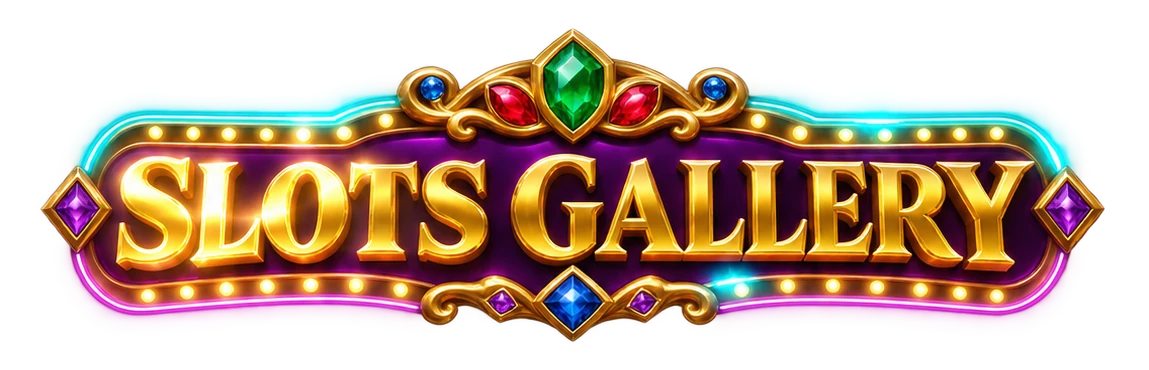
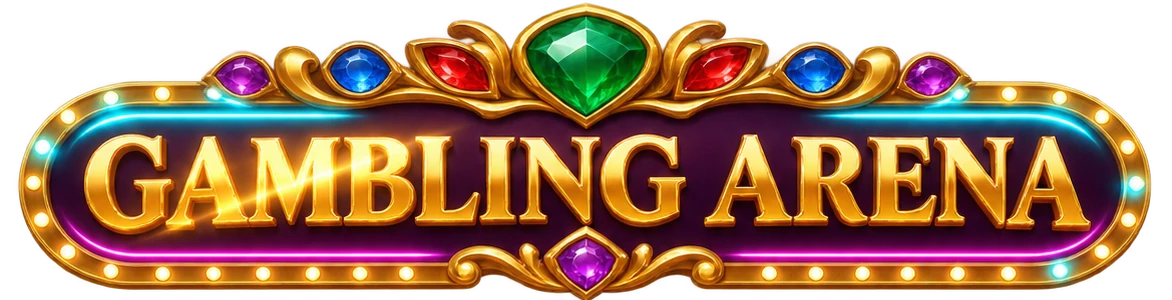
v1.12.0: Gambling Arena title
Replace the start-screen and menu title with the supplied 4-frame
"Gambling Arena" sheet (frames aligned to frame 0, clipped to their own
band, stray glow removed; title box now 1172x300). Rename the app from
Slots Gallery / Gem Royale to Gambling Arena in the page title,
home-screen name, manifest, accessibility labels and Settings text. Fix
the start screen's sound hint overlapping the version in landscape.

Version 1.11.0 -> 1.12.0.

Claude-Session: https://claude.ai/code/session_017YpgyCpvBdSMBF7Wu9vfHe

diff --git a/index.html b/index.html
@@ -3,35 +3,35 @@
 <head>
   <meta charset="utf-8">
   <meta name="viewport" content="width=device-width, initial-scale=1, maximum-scale=1, user-scalable=no, viewport-fit=cover">
-  <meta name="app-version" content="1.11.0">
-  <title>Gem Royale</title>
+  <meta name="app-version" content="1.12.0">
+  <title>Gambling Arena</title>
   <meta name="theme-color" content="#1a0626">
   <meta name="apple-mobile-web-app-capable" content="yes">
   <meta name="mobile-web-app-capable" content="yes">
   <meta name="apple-mobile-web-app-status-bar-style" content="black-translucent">
-  <meta name="apple-mobile-web-app-title" content="Gem Royale">
+  <meta name="apple-mobile-web-app-title" content="Gambling Arena">
   <link rel="apple-touch-icon" href="icons/icon-180.png">
   <link rel="icon" type="image/png" sizes="192x192" href="icons/icon-192.png">
   <link rel="manifest" href="manifest.webmanifest">
-  <link rel="stylesheet" href="css/style.css?v=1.11.0">
+  <link rel="stylesheet" href="css/style.css?v=1.12.0">
 </head>
 <body>
   <div id="loading"><div class="spinner"></div><p>Polishing gems…</p></div>
 
   <!-- Start screen: animated casino background + animated title, "tap to start" -->
-  <section id="startScreen" hidden aria-label="Slots Gallery. Tap to start.">
+  <section id="startScreen" hidden aria-label="Gambling Arena. Tap to start.">
     <div class="st-bg" aria-hidden="true">
-      <img class="sb sb0" src="assets/start/bg-0.webp?v=1.11.0" alt="" draggable="false">
-      <img class="sb sb1" src="assets/start/bg-1.webp?v=1.11.0" alt="" draggable="false">
-      <img class="sb sb2" src="assets/start/bg-2.webp?v=1.11.0" alt="" draggable="false">
-      <img class="sb sb3" src="assets/start/bg-3.webp?v=1.11.0" alt="" draggable="false">
+      <img class="sb sb0" src="assets/start/bg-0.webp?v=1.12.0" alt="" draggable="false">
+      <img class="sb sb1" src="assets/start/bg-1.webp?v=1.12.0" alt="" draggable="false">
+      <img class="sb sb2" src="assets/start/bg-2.webp?v=1.12.0" alt="" draggable="false">
+      <img class="sb sb3" src="assets/start/bg-3.webp?v=1.12.0" alt="" draggable="false">
     </div>
     <div class="st-shade" aria-hidden="true"></div>
-    <div class="st-title" role="img" aria-label="Slots Gallery">
-      <img class="stt stt0" src="assets/start/title-0.webp?v=1.11.0" alt="" draggable="false">
-      <img class="stt stt1" src="assets/start/title-1.webp?v=1.11.0" alt="" draggable="false">
-      <img class="stt stt2" src="assets/start/title-2.webp?v=1.11.0" alt="" draggable="false">
-      <img class="stt stt3" src="assets/start/title-3.webp?v=1.11.0" alt="" draggable="false">
+    <div class="st-title" role="img" aria-label="Gambling Arena">
+      <img class="stt stt0" src="assets/start/title-0.webp?v=1.12.0" alt="" draggable="false">
+      <img class="stt stt1" src="assets/start/title-1.webp?v=1.12.0" alt="" draggable="false">
+      <img class="stt stt2" src="assets/start/title-2.webp?v=1.12.0" alt="" draggable="false">
+      <img class="stt stt3" src="assets/start/title-3.webp?v=1.12.0" alt="" draggable="false">
     </div>
     <p class="st-tap" id="startTap">TAP TO START</p>
     <p class="st-sound" id="startSound">🔊 Sound on · turn off in Settings</p>
@@ -41,14 +41,14 @@
   <!-- Machine select menu (placeholder art: real menu artwork to come) -->
   <section id="menuScreen" hidden aria-label="Choose a slot machine">
     <div class="st-bg" aria-hidden="true">
-      <img class="sb sb0" src="assets/start/bg-0.webp?v=1.11.0" alt="" draggable="false">
-      <img class="sb sb1" src="assets/start/bg-1.webp?v=1.11.0" alt="" draggable="false">
-      <img class="sb sb2" src="assets/start/bg-2.webp?v=1.11.0" alt="" draggable="false">
-      <img class="sb sb3" src="assets/start/bg-3.webp?v=1.11.0" alt="" draggable="false">
+      <img class="sb sb0" src="assets/start/bg-0.webp?v=1.12.0" alt="" draggable="false">
+      <img class="sb sb1" src="assets/start/bg-1.webp?v=1.12.0" alt="" draggable="false">
+      <img class="sb sb2" src="assets/start/bg-2.webp?v=1.12.0" alt="" draggable="false">
+      <img class="sb sb3" src="assets/start/bg-3.webp?v=1.12.0" alt="" draggable="false">
     </div>
     <div class="st-shade mn-shade" aria-hidden="true"></div>
     <div class="mn-inner">
-      <img class="mn-title" src="assets/start/title-0.webp?v=1.11.0" alt="Slots Gallery" draggable="false">
+      <img class="mn-title" src="assets/start/title-0.webp?v=1.12.0" alt="Gambling Arena" draggable="false">
       <h1 class="mn-head">Choose a machine</h1>
       <button class="mn-sound" id="menuSound" aria-label="Sound on or off">🔊</button>
       <div class="mn-list" id="machineList"></div>
@@ -110,7 +110,7 @@
     <div class="dlg-head"><h2>Settings</h2><button class="close" data-close aria-label="Close">✕</button></div>
     <div class="dlg-body">
       <div class="verbox"><span>Version</span><b id="verLbl"></b></div>
-      <p class="muted">Slots Gallery is a free-play game. Credits have no cash value and are shared by every machine.</p>
+      <p class="muted">Gambling Arena is a free-play game. Credits have no cash value and are shared by every machine.</p>
       <div class="audio-set">
         <label class="aud-row"><span>🎵 Music</span><input type="checkbox" id="setMusic"><input type="range" id="volMusic" min="0" max="100" aria-label="Music volume"></label>
         <label class="aud-row"><span>🔔 Sound effects</span><input type="checkbox" id="setSfx"><input type="range" id="volSfx" min="0" max="100" aria-label="Sound effects volume"></label>
@@ -131,9 +131,9 @@
   <div id="toast" hidden></div>
   <div id="updating" hidden><div class="spinner"></div><p>Updating to the latest version…</p></div>
 
-  <script src="js/engine.js?v=1.11.0"></script>
-  <script src="js/update.js?v=1.11.0"></script>
-  <script src="js/audio.js?v=1.11.0"></script>
-  <script src="js/app.js?v=1.11.0"></script>
+  <script src="js/engine.js?v=1.12.0"></script>
+  <script src="js/update.js?v=1.12.0"></script>
+  <script src="js/audio.js?v=1.12.0"></script>
+  <script src="js/app.js?v=1.12.0"></script>
 </body>
 </html>

diff --git a/css/style.css b/css/style.css
@@ -72,7 +72,7 @@ button { font: inherit; color: inherit; touch-action: manipulation; cursor: poin
 .st-title {
   position: relative;
   width: min(94vw, 760px, 150dvh);
-  aspect-ratio: 1149 / 370;
+  aspect-ratio: 1172 / 300;
   margin-top: -12dvh;
   animation: stTitleIn .9s cubic-bezier(.2, 1.4, .4, 1) both, stFloat 3.2s ease-in-out .9s infinite alternate;
 }
@@ -563,7 +563,10 @@ dialog::backdrop { background: rgba(5,0,10,.7); }
   position: absolute; left: 0; right: 0; bottom: calc(var(--sa-bottom) + 12dvh);
   margin: 0; text-align: center; font-size: 13px; color: rgba(240, 220, 250, .75); pointer-events: none;
 }
-@media (orientation: landscape) and (max-height: 600px) { .st-sound { bottom: calc(var(--sa-bottom) + 6dvh); } }
+@media (orientation: landscape) and (max-height: 600px) {
+  .st-sound { bottom: calc(var(--sa-bottom) + 30px); }
+  #startScreen .st-tap { bottom: calc(var(--sa-bottom) + 56px); }
+}
 .mn-sound {
   position: absolute; top: calc(var(--sa-top) + 10px); right: calc(var(--sa-right) + 12px);
   width: 42px; height: 42px; border-radius: 50%; font-size: 20px; line-height: 1;

diff --git a/js/app.js b/js/app.js
@@ -1,4 +1,4 @@
-// Slots Gallery – UI / game loop shared by every machine.
+// Gambling Arena – UI / game loop shared by every machine.
 // The current machine is `M` (an entry of MACHINES, below) and its math engine is `E`.
 (function () {
   const $ = id => document.getElementById(id);
@@ -668,7 +668,7 @@
     });
     $('jpBanner').querySelectorAll('img').forEach(i => i.remove());
     if (m.art.jackpot) preload(m.art.jackpot.map(assetUrl));
-    document.title = `${m.name} · Slots Gallery`;
+    document.title = `${m.name} · Gambling Arena`;
   }
 
   function enterMachine(m) {

diff --git a/js/audio.js b/js/audio.js
@@ -1,4 +1,4 @@
-// Slots Gallery – music and sound effects, all synthesised with the Web Audio API (no audio files).
+// Gambling Arena – music and sound effects, all synthesised with the Web Audio API (no audio files).
 //
 //   SlotAudio.unlock()            call from a tap: browsers (iOS especially) only allow sound after a gesture
 //   SlotAudio.scene(id)           'lobby' (title + menu) or a machine id: crossfades to that theme

diff --git a/js/engine.js b/js/engine.js
@@ -1,4 +1,4 @@
-// Slots Gallery – game math for every machine (pure, no DOM). Usable in browser and Node.
+// Gambling Arena – game math for every machine (pure, no DOM). Usable in browser and Node.
 //
 //   Engines['gem-royale'], Engines['unicorn-royale']   – one engine per machine
 //   Engine                                             – Gem Royale (kept for older tools)

diff --git a/sw.js b/sw.js
@@ -1,5 +1,5 @@
 // Gem Royale service worker. VERSION is set by tools/bump-version.js; changing it renames the offline cache.
-const VERSION = '1.11.0';
+const VERSION = '1.12.0';
 const CACHE = 'gem-royale-' + VERSION;
 const SHELL = [
   './',

diff --git a/CLAUDE.md b/CLAUDE.md
@@ -1,6 +1,6 @@
-# Gem Royale — CLAUDE.md
+# Gambling Arena — CLAUDE.md
 
-Gem Royale is a free-play gem slot machine. It is built as a PWA (Progressive Web App) that the owner installs on an iPhone from GitHub Pages (Safari → Share → Add to Home Screen). Credits have no cash value.
+Gambling Arena (formerly "Slots Gallery") is a free-play slot machine collection: Gem Royale and Unicorn Royale. It is built as a PWA (Progressive Web App) that the owner installs on an iPhone from GitHub Pages (Safari → Share → Add to Home Screen). Credits have no cash value.
 
 ## Rules
 
@@ -54,7 +54,7 @@ Gem Royale is a free-play gem slot machine. It is built as a PWA (Progressive We
 | `assets/unicorn/jackpot-0..5.webp` | The 6-frame JACKPOT banner (768×341 each). The amount is drawn over its purple plate (left 35.8%, top 76.8%, width 28.4%, height 11.4%). |
 | `assets/unicorn/bg.jpg` | Blurred page background for Unicorn Royale. |
 | `assets/start/bg-0..3.webp` | Start-screen background frames (832×466 each), cut from the owner's 2×2 casino sheet (tile origins (0,0), (836,0), (0,471), (836,471)). |
-| `assets/start/title-0..3.webp` | "Slots Gallery" title frames (1149×370 each), cut from the owner's 4-row title sheet (frame tops at y = 20, 363, 704, 1047). Each frame is clipped to its own band, and glow is kept only near the artwork, so stray glow noise on the sheet is dropped. |
+| `assets/start/title-0..3.webp` | "Gambling Arena" title frames (1172×300 each; `.st-title` aspect-ratio 1172/300), cut from the owner's 4-row title sheet (frame tops at y = 8, 331, 653, 975, x offset 22). Each frame is clipped to its own band, and glow is kept only near the artwork, so stray glow noise on the sheet is dropped. |
 | `assets/menu/<machine-id>.webp` | Menu cards: the owner's card artwork, 600×800. |
 | `assets/bg.jpg` | Blurred casino background for the page. |
 | `icons/` | App icons (180 / 192 / 512). |

diff --git a/CHANGELOG.md b/CHANGELOG.md
@@ -11,6 +11,15 @@ All notable changes to Gem Royale are listed here. The format follows
 The version shown in the app's Settings matches the newest entry. Versions 1.0.0–1.3.0 were
 released before numbering was added to the app and are recorded here retroactively.
 
+## [1.12.0] - 2026-11-06
+
+### Changed
+- The game is now titled **Gambling Arena**. The start screen and machine menu use the new 4-frame animated title, which crossfades through its frames like the old one.
+- App name updated to Gambling Arena: browser tab, home-screen name for new installs, accessibility labels and Settings text.
+
+### Fixed
+- In landscape, the "Sound on" line on the start screen overlapped the version number.
+
 ## [1.11.0] - 2026-11-06
 
 ### Changed
